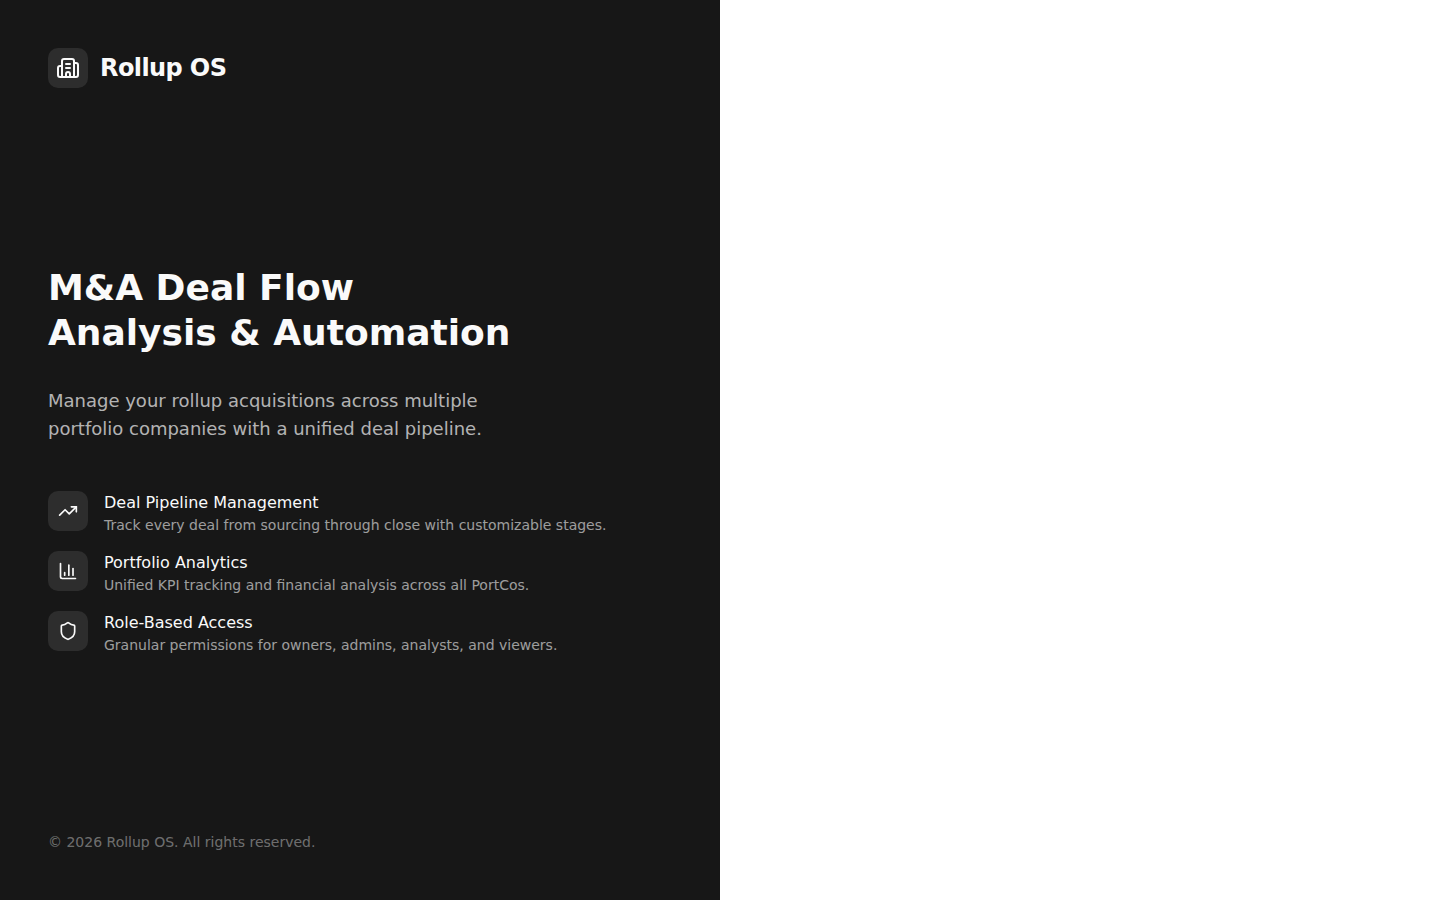
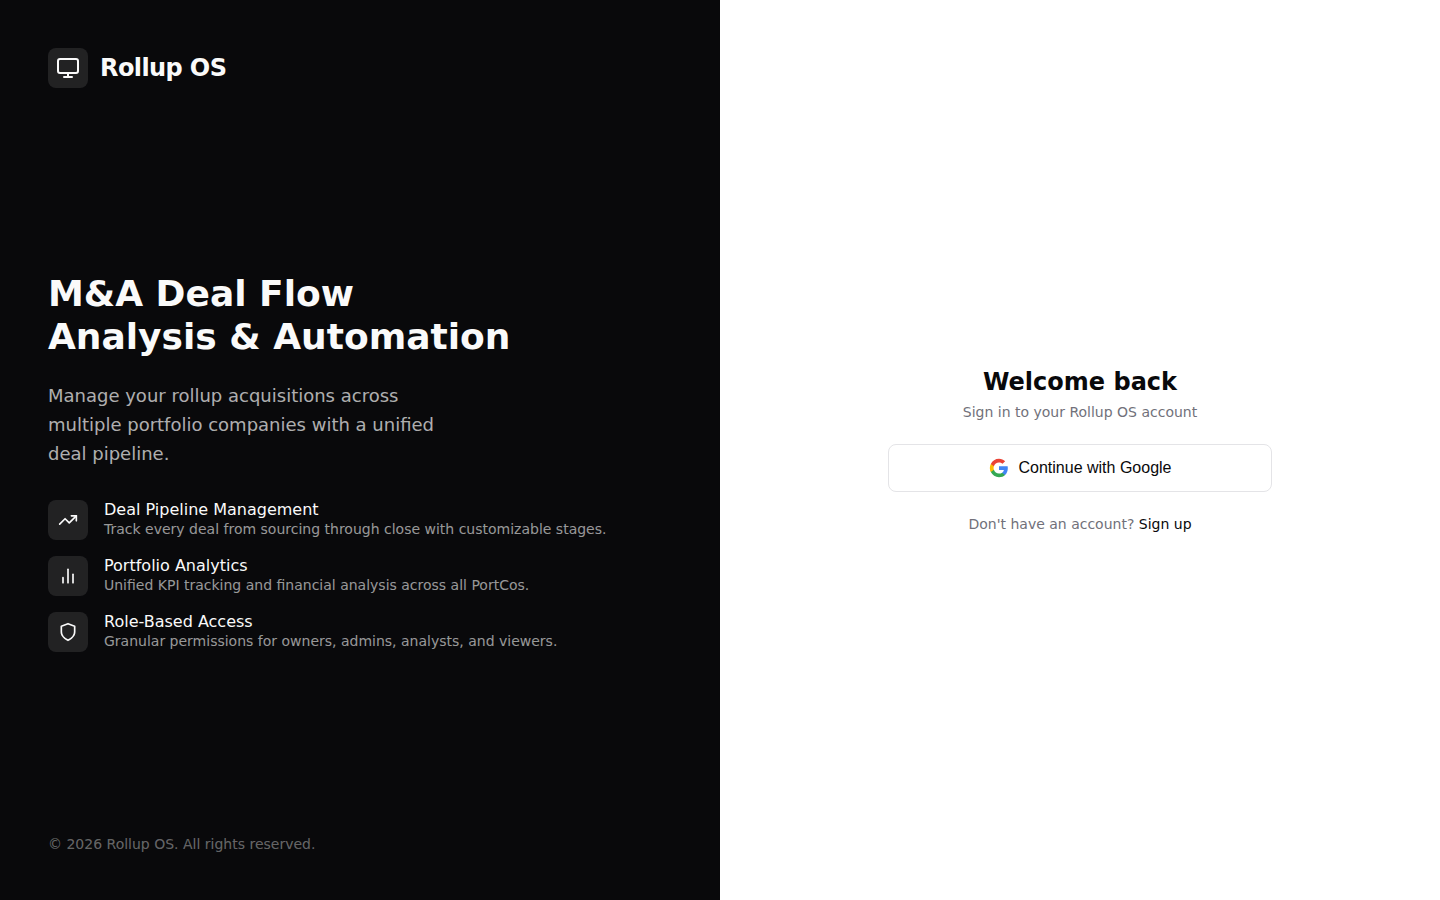
Replace Clerk widgets with custom sign-in/sign-up UI using Clerk Elements
Use @clerk/elements with shadcn Button/Card components for a clean,
branded Google SSO login experience instead of the default Clerk widget.
Extract shared GoogleIcon component to avoid duplication.

https://claude.ai/code/session_01A8gEifiu9PNY572t5TB47B

diff --git a/src/app/(auth)/sign-up/[[...sign-up]]/page.tsx b/src/app/(auth)/sign-up/[[...sign-up]]/page.tsx
@@ -1,5 +1,57 @@
-import { SignUp } from "@clerk/nextjs";
+"use client";
+
+import * as Clerk from "@clerk/elements/sign-up";
+import { Connection } from "@clerk/elements/common";
+import { Button } from "@/components/ui/button";
+import {
+  Card,
+  CardContent,
+  CardDescription,
+  CardFooter,
+  CardHeader,
+  CardTitle,
+} from "@/components/ui/card";
+import { GoogleIcon } from "@/components/icons/google";
+import Link from "next/link";
 
 export default function SignUpPage() {
-  return <SignUp />;
+  return (
+    <Clerk.Root>
+      <Clerk.Step name="start">
+        <Card className="w-full max-w-sm border-0 shadow-none bg-transparent">
+          <CardHeader className="text-center">
+            <CardTitle className="text-2xl font-bold">
+              Create your account
+            </CardTitle>
+            <CardDescription>
+              Get started with Rollup OS today
+            </CardDescription>
+          </CardHeader>
+          <CardContent>
+            <Connection name="google" asChild>
+              <Button
+                variant="outline"
+                size="lg"
+                className="w-full h-12 text-base font-medium"
+              >
+                <GoogleIcon className="size-5" />
+                Continue with Google
+              </Button>
+            </Connection>
+          </CardContent>
+          <CardFooter className="justify-center">
+            <p className="text-sm text-muted-foreground">
+              Already have an account?{" "}
+              <Link
+                href="/sign-in"
+                className="font-medium text-primary hover:underline"
+              >
+                Sign in
+              </Link>
+            </p>
+          </CardFooter>
+        </Card>
+      </Clerk.Step>
+    </Clerk.Root>
+  );
 }

diff --git a/src/app/(auth)/sign-in/[[...sign-in]]/page.tsx b/src/app/(auth)/sign-in/[[...sign-in]]/page.tsx
@@ -1,5 +1,55 @@
-import { SignIn } from "@clerk/nextjs";
+"use client";
+
+import * as Clerk from "@clerk/elements/sign-in";
+import { Connection } from "@clerk/elements/common";
+import { Button } from "@/components/ui/button";
+import {
+  Card,
+  CardContent,
+  CardDescription,
+  CardFooter,
+  CardHeader,
+  CardTitle,
+} from "@/components/ui/card";
+import { GoogleIcon } from "@/components/icons/google";
+import Link from "next/link";
 
 export default function SignInPage() {
-  return <SignIn />;
+  return (
+    <Clerk.Root>
+      <Clerk.Step name="start">
+        <Card className="w-full max-w-sm border-0 shadow-none bg-transparent">
+          <CardHeader className="text-center">
+            <CardTitle className="text-2xl font-bold">Welcome back</CardTitle>
+            <CardDescription>
+              Sign in to your Rollup OS account
+            </CardDescription>
+          </CardHeader>
+          <CardContent>
+            <Connection name="google" asChild>
+              <Button
+                variant="outline"
+                size="lg"
+                className="w-full h-12 text-base font-medium"
+              >
+                <GoogleIcon className="size-5" />
+                Continue with Google
+              </Button>
+            </Connection>
+          </CardContent>
+          <CardFooter className="justify-center">
+            <p className="text-sm text-muted-foreground">
+              Don&apos;t have an account?{" "}
+              <Link
+                href="/sign-up"
+                className="font-medium text-primary hover:underline"
+              >
+                Sign up
+              </Link>
+            </p>
+          </CardFooter>
+        </Card>
+      </Clerk.Step>
+    </Clerk.Root>
+  );
 }

diff --git a/src/components/icons/google.tsx b/src/components/icons/google.tsx
@@ -1,0 +1,22 @@
+export function GoogleIcon({ className }: { className?: string }) {
+  return (
+    <svg className={className} viewBox="0 0 24 24">
+      <path
+        d="M22.56 12.25c0-.78-.07-1.53-.2-2.25H12v4.26h5.92a5.06 5.06 0 0 1-2.2 3.32v2.77h3.57c2.08-1.92 3.28-4.74 3.28-8.1z"
+        fill="#4285F4"
+      />
+      <path
+        d="M12 23c2.97 0 5.46-.98 7.28-2.66l-3.57-2.77c-.98.66-2.23 1.06-3.71 1.06-2.86 0-5.29-1.93-6.16-4.53H2.18v2.84C3.99 20.53 7.7 23 12 23z"
+        fill="#34A853"
+      />
+      <path
+        d="M5.84 14.09c-.22-.66-.35-1.36-.35-2.09s.13-1.43.35-2.09V7.07H2.18A10.96 10.96 0 0 0 1 12c0 1.77.42 3.45 1.18 4.93l2.85-2.22.81-.62z"
+        fill="#FBBC05"
+      />
+      <path
+        d="M12 5.38c1.62 0 3.06.56 4.21 1.64l3.15-3.15C17.45 2.09 14.97 1 12 1 7.7 1 3.99 3.47 2.18 7.07l3.66 2.84c.87-2.6 3.3-4.53 6.16-4.53z"
+        fill="#EA4335"
+      />
+    </svg>
+  );
+}
